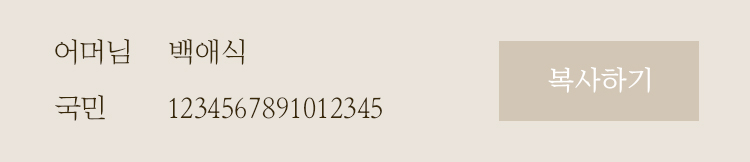
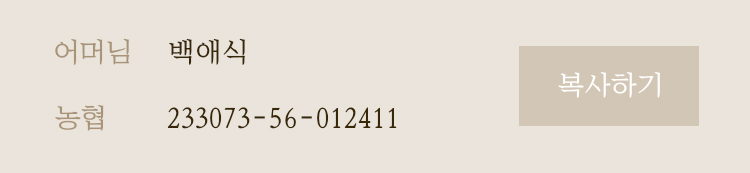
Add files via upload

diff --git a/index.html b/index.html
@@ -114,7 +114,7 @@
         display: block;
         opacity: 0;
         height: 0;
-        position: absolute;
+        position: absolute
     }
 
 
@@ -284,11 +284,16 @@
         <div id="menus">
             <a onclick="copyData(selectText)">
                 <p id="selectText">1234</p>
+                <img src="images/invi_accont_03.jpg" style="width: 100%;">
+            </a>
+            <a onclick="copyData(selectText_2)">
+                <p id="selectText_2">352-0291-2263-23</p>
                 <img src="images/invi_accont_04.jpg" style="width: 100%;">
             </a>
-
-            <a href="#"><img src="images/invi_accont_04.jpg" style="width: 100%;"></a>
-            <a href="#"><img src="images/invi_accont_05.jpg" style="width: 100%;"></a>
+            <a onclick="copyData(selectText_3)">
+                <p id="selectText_3">5678</p>
+                <img src="images/invi_accont_05.jpg" style="width: 100%;">
+            </a>
         </div>
 
         <!-- Bar icon for navigation -->
